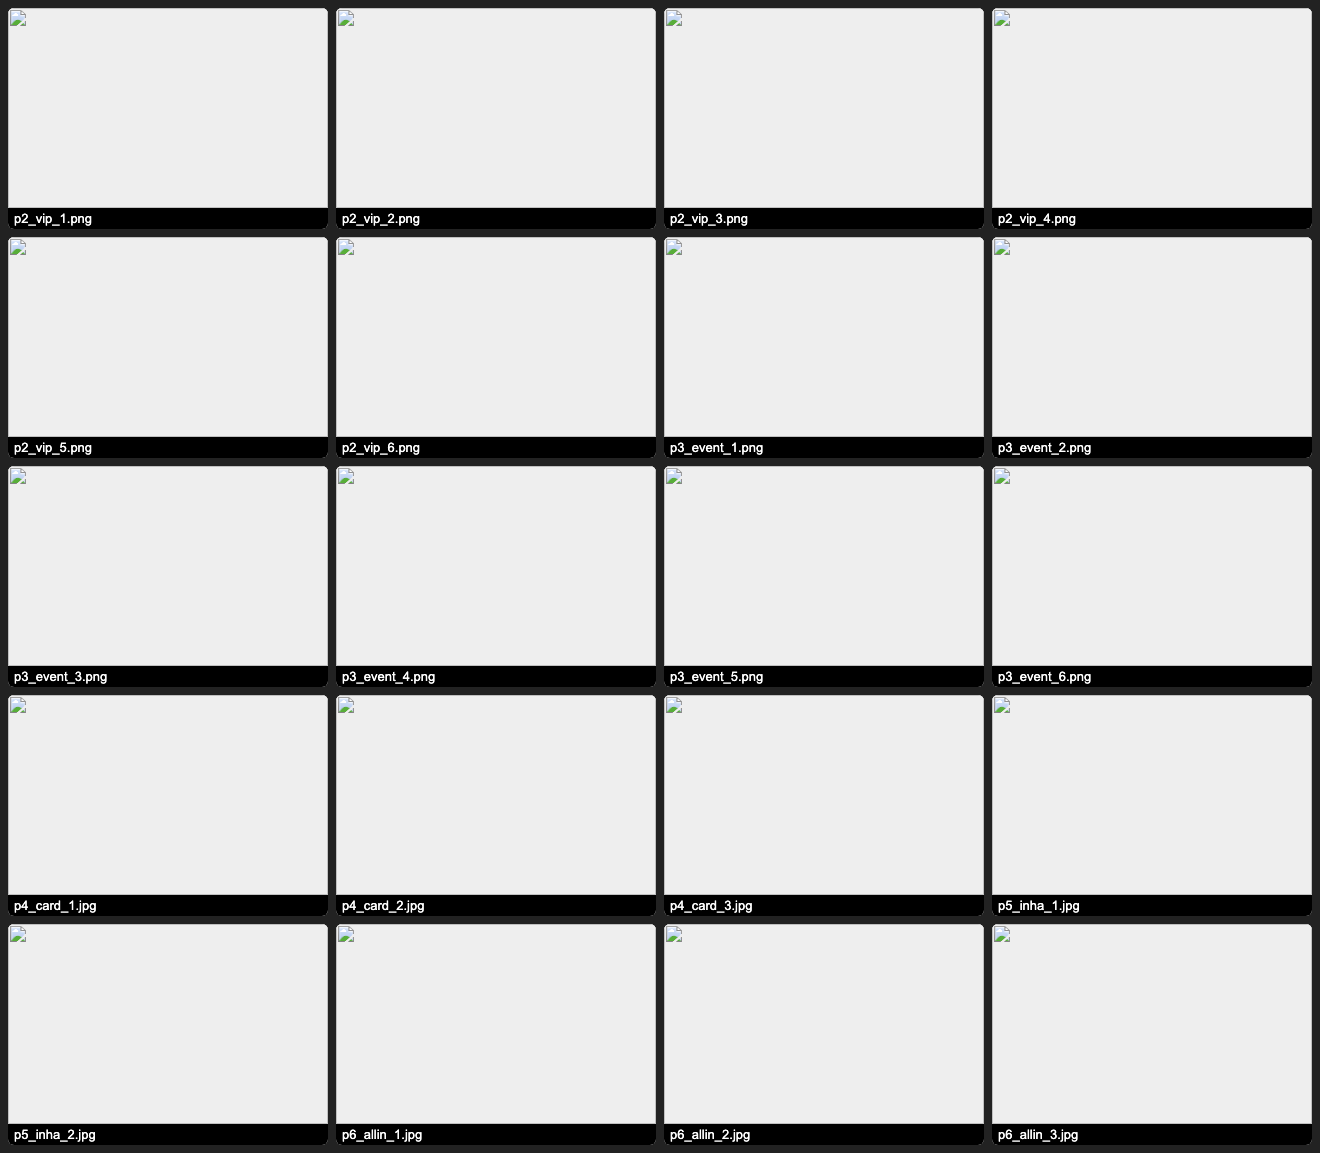
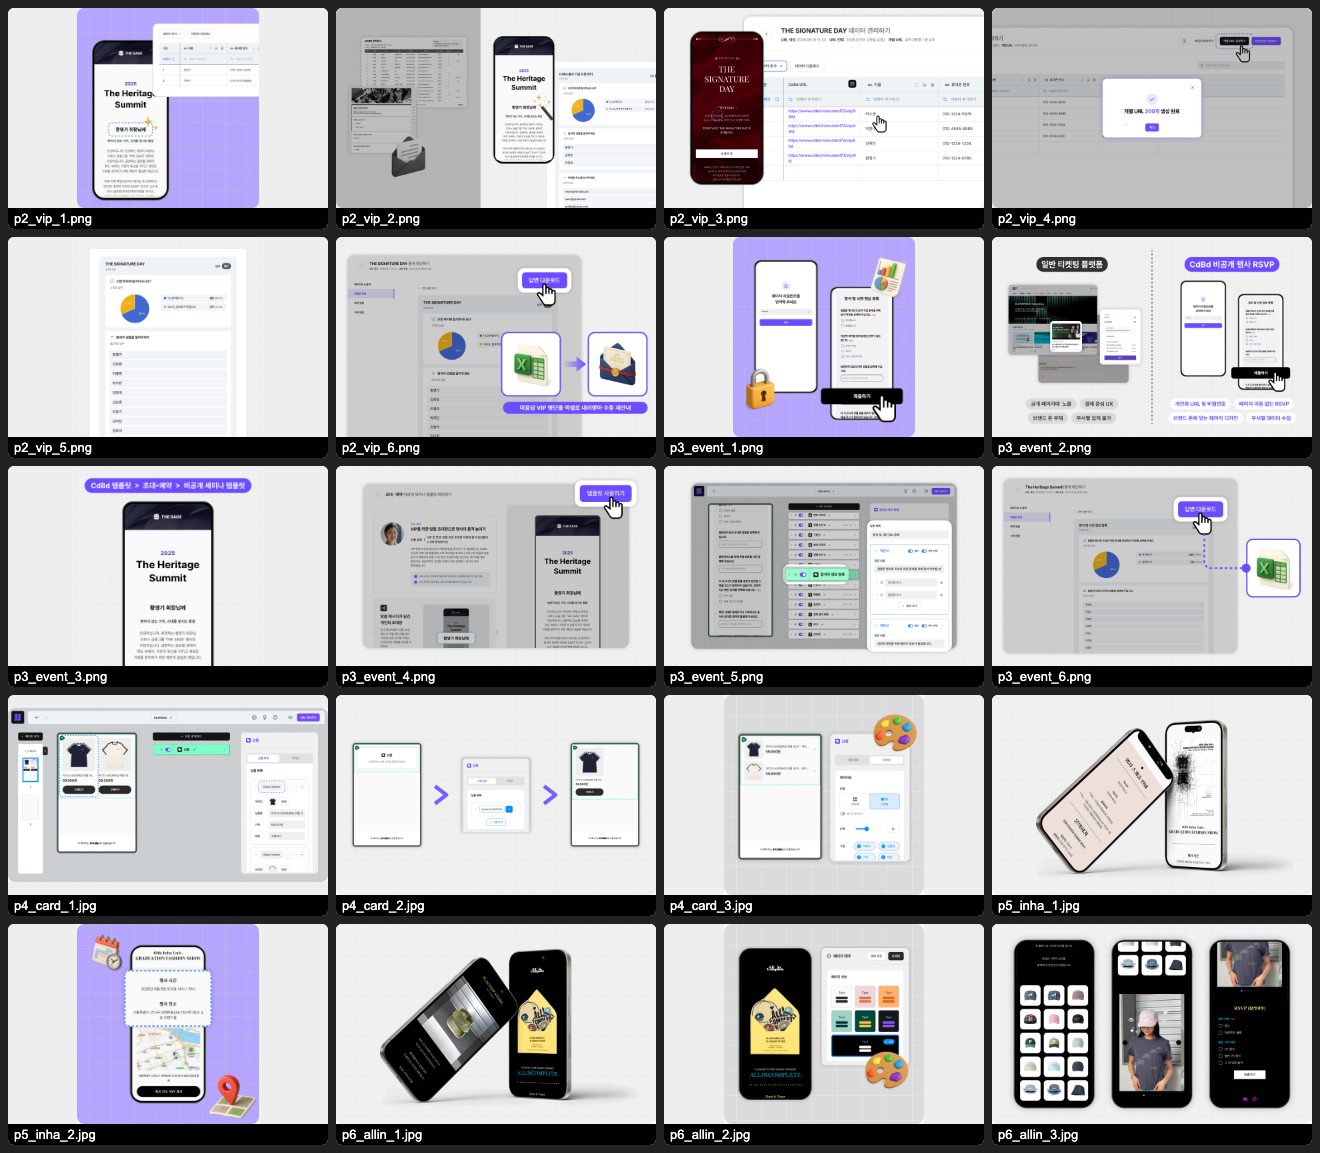
vault backup: 2026-06-23 14:04:15

diff --git a/자동화 도구/cdbd-capture/blog-refs/_sheet.html b/자동화 도구/cdbd-capture/blog-refs/_sheet.html
@@ -1,0 +1,7 @@
+<!doctype html><meta charset=utf-8><style>
+body{margin:0;background:#222;font-family:sans-serif}
+.grid{display:grid;grid-template-columns:repeat(4,320px);gap:8px;padding:8px}
+.c{background:#fff;border-radius:6px;overflow:hidden}
+.c img{width:320px;height:200px;object-fit:contain;background:#eee;display:block}
+.l{color:#fff;background:#000;font-size:13px;padding:3px 6px}
+</style><div class="grid"><div class="c"><img src="p2_vip_1.png"><div class="l">p2_vip_1.png</div></div><div class="c"><img src="p2_vip_2.png"><div class="l">p2_vip_2.png</div></div><div class="c"><img src="p2_vip_3.png"><div class="l">p2_vip_3.png</div></div><div class="c"><img src="p2_vip_4.png"><div class="l">p2_vip_4.png</div></div><div class="c"><img src="p2_vip_5.png"><div class="l">p2_vip_5.png</div></div><div class="c"><img src="p2_vip_6.png"><div class="l">p2_vip_6.png</div></div><div class="c"><img src="p3_event_1.png"><div class="l">p3_event_1.png</div></div><div class="c"><img src="p3_event_2.png"><div class="l">p3_event_2.png</div></div><div class="c"><img src="p3_event_3.png"><div class="l">p3_event_3.png</div></div><div class="c"><img src="p3_event_4.png"><div class="l">p3_event_4.png</div></div><div class="c"><img src="p3_event_5.png"><div class="l">p3_event_5.png</div></div><div class="c"><img src="p3_event_6.png"><div class="l">p3_event_6.png</div></div><div class="c"><img src="p4_card_1.jpg"><div class="l">p4_card_1.jpg</div></div><div class="c"><img src="p4_card_2.jpg"><div class="l">p4_card_2.jpg</div></div><div class="c"><img src="p4_card_3.jpg"><div class="l">p4_card_3.jpg</div></div><div class="c"><img src="p5_inha_1.jpg"><div class="l">p5_inha_1.jpg</div></div><div class="c"><img src="p5_inha_2.jpg"><div class="l">p5_inha_2.jpg</div></div><div class="c"><img src="p6_allin_1.jpg"><div class="l">p6_allin_1.jpg</div></div><div class="c"><img src="p6_allin_2.jpg"><div class="l">p6_allin_2.jpg</div></div><div class="c"><img src="p6_allin_3.jpg"><div class="l">p6_allin_3.jpg</div></div></div>
